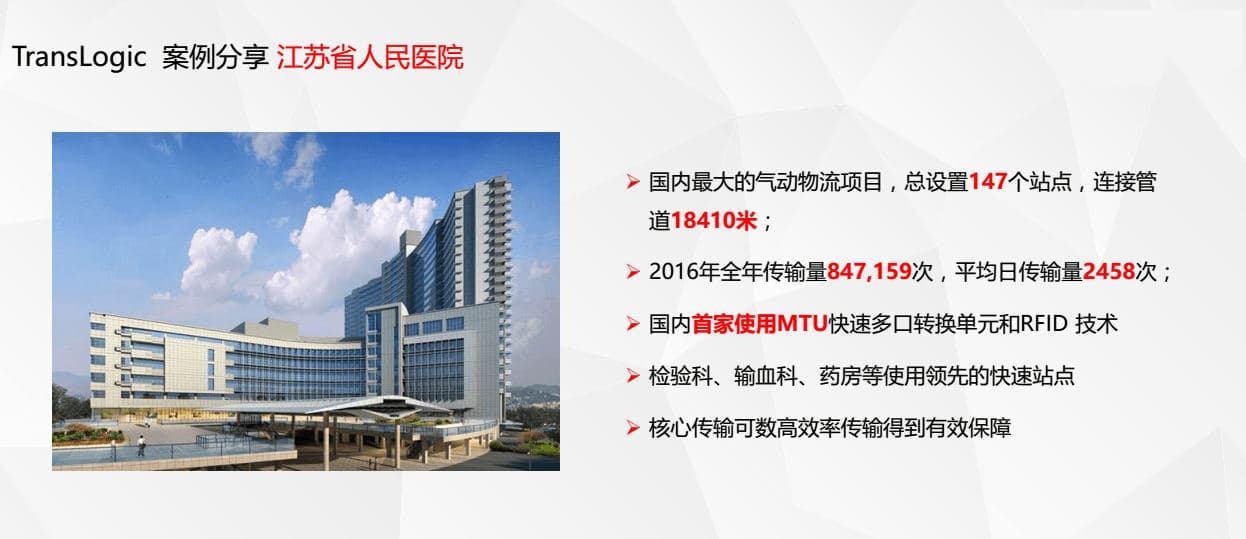
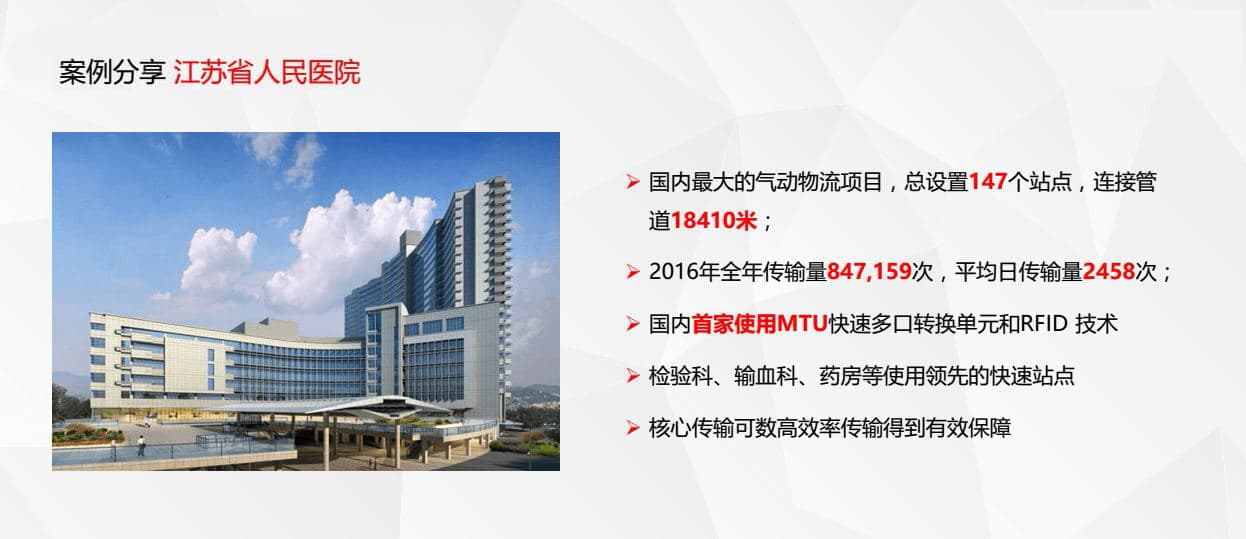
修图 去水印

Changed region(s): [[0.0, 0.0594, 0.3965, 0.1781]]

diff --git a/case-share.html b/case-share.html
@@ -1,1 +1,1 @@
-<!DOCTYPE html><html lang="en"><head><meta charset="utf-8"><meta http-equiv="X-UA-Compatible" content="IE=edge"><meta name="viewport" content="width=device-width, initial-scale=1"><meta name="description" content=""><meta name="keywords" content=""><meta name="author" content=""><title>案例分享 - 睿启（上海）工程设备有限公司</title><link rel="icon" href="images/favicon.png" type="image/x-icon"><link href="css/bootstrap.min.css" rel="stylesheet"><link href="css/bootstrap-dropdownhover.min.css" rel="stylesheet"><link href="css/font-awesome.min.css" rel="stylesheet"><link href="css/animate.css" rel="stylesheet"><link href="css/style.css" rel="stylesheet"><link href="css/responsive.css" rel="stylesheet"></head><body><header id="header" class="head"><nav class="navbar navbar-default navbar-menu"><div class="container"><div class="navbar-header"><button type="button" class="navbar-toggle" data-toggle="collapse" data-target=".navbar-collapse"><span class="sr-only">Toggle navigation</span><span class="icon-bar"></span><span class="icon-bar"></span><span class="icon-bar"></span></button><a class="navbar-brand" href="index.html"><img src="images/logo.png" alt="logo"></a><p class="navbar-text">睿启（上海）工程设备有限公司</p></div><div class="collapse navbar-collapse" id="bs-example-navbar-collapse-1" data-animations="fadeIn"><ul class="nav navbar-nav navbar-right"><li><a href="index.html">公司首页</a></li><li><a href="company-introduction.html">公司介绍</a></li><li class="dropdown"><a href="javascript:;" class="dropdown-toggle" data-toggle="dropdown" role="button" aria-haspopup="true"                aria-expanded="false">产品中心<span class="caret"></span></a><ul class="dropdown-menu"><li id='dropdown3-wrap' class="dropdown3-wrap" flag='off'><a href="javascript:;">自动化物流系统方案</a></li><li class="dropdown3"><div><a href="case.html">气动物流传输系统(PTS)</a></div><div><a href="case.html">轨道物流解决方案(ETV)</a></div><div><a href="case.html">中型物流解决方案</a></div><div><a href="case.html">自动导航机器人</a></div></li><li><a href="case.html">医院药房自动化系统</a></li><li><a href="case.html">骨科手术机器人</a></li><li><a href="case.html">院内OTC物品解决方案</a></li></ul></li><li><a href="case-share.html">案列分享</a></li><li><a href="contact_fb.html">关于我们</a></li></ul></div></div></nav></header><section id="slider" class=""><div id="main-slide" class="carousel slide" data-ride="carousel"><ol class="carousel-indicators visible-lg visible-md"><li data-target="#main-slide" data-slide-to="0" class="active"></li><li data-target="#main-slide" data-slide-to="1"></li><li data-target="#main-slide" data-slide-to="2"></li></ol><div class="carousel-inner"></div><template id="tpl-slide-item"><div class="item" style="background-image:url(images/banner/2.jpg)"><div class="slider-content"><div class="col-md-12 text-center"><h2 class="slide-title effect4">智能 改变生活</h2><h3 class="slide-sub-title effect5">您身边的智能专家</h3></div></div></div></template><a class="left carousel-control" href="#main-slide" data-slide="prev"><span><i class="fa fa-angle-left"></i></span></a><a class="right carousel-control" href="#main-slide" data-slide="next"><span><i class="fa fa-angle-right"></i></span></a></div></section><div class="tlinks">Collect from<a href=""></a></div><section id="inner-title" class="inner-title"><div class="container"><div class="row"><div class="col-md-6 col-lg-6"><h2>案例分享</h2></div><div class="col-md-6 col-lg-6"><div class="breadcrumbs"><ul><li>当前页:</li><li><a href="index.html">公司首页</a></li><li><a href="case-share.html">案例分享</a></li></ul></div></div></div></div></section><section id="solve2" class="section22 case-content" name="solve2"><div class="container"><div class="row"><div class="col-md-12 col-lg-12"><div class="section-5-box-text-cont wow fadeInLeft" style="visibility: visible; animation-name: fadeInLeft;"><img              src="images/case-share/00.jpg" class="img-responsive" alt=""></div></div></div><div class="row"><div class="col-md-12 col-lg-12"><div class="section-5-box-text-cont wow fadeInLeft" style="visibility: visible; animation-name: fadeInLeft;"><img              src="images/case-share/0.jpg" class="img-responsive" alt=""></div></div></div><div class="row"><div class="col-md-12 col-lg-12"><div class="section-5-box-text-cont wow fadeInLeft" style="visibility: visible; animation-name: fadeInLeft;"><img              src="images/case-share/1.jpg" class="img-responsive" alt=""></div></div></div><div class="row"><div class="col-md-12 col-lg-12"><div class="section-5-box-text-cont wow fadeInLeft" style="visibility: visible; animation-name: fadeInLeft;"><img              src="images/case-share/2.jpg" class="img-responsive" alt=""></div></div></div><div class="row"><div class="col-md-12 col-lg-12"><div class="section-5-box-text-cont wow fadeInLeft" style="visibility: visible; animation-name: fadeInLeft;"><img              src="images/case-share/3.jpg" class="img-responsive" alt=""></div></div></div><div class="row"><div class="col-md-12 col-lg-12"><div class="section-5-box-text-cont wow fadeInLeft" style="visibility: visible; animation-name: fadeInLeft;"><img              src="images/case-share/4.jpg" class="img-responsive" alt=""></div></div></div><div class="row"><div class="col-md-12 col-lg-12"><div class="section-5-box-text-cont wow fadeInLeft" style="visibility: visible; animation-name: fadeInLeft;"><img              src="images/case-share/5.jpg" class="img-responsive" alt=""></div></div></div><div class="row"><div class="col-md-12 col-lg-12"><div class="section-5-box-text-cont wow fadeInLeft" style="visibility: visible; animation-name: fadeInLeft;"><img              src="images/case-share/6.jpg" class="img-responsive" alt=""></div></div></div><div class="row"><div class="col-md-12 col-lg-12"><div class="section-5-box-text-cont wow fadeInLeft" style="visibility: visible; animation-name: fadeInLeft;"><img              src="images/case-share/7.jpg" class="img-responsive" alt=""></div></div></div><div class="row"><div class="col-md-12 col-lg-12"><div class="section-5-box-text-cont wow fadeInLeft" style="visibility: visible; animation-name: fadeInLeft;"><img              src="images/case-share/8.jpg" class="img-responsive" alt=""></div></div></div><div class="row"><div class="col-md-12 col-lg-12"><div class="section-5-box-text-cont wow fadeInLeft" style="visibility: visible; animation-name: fadeInLeft;"><img              src="images/case-share/9.jpg" class="img-responsive" alt=""></div></div></div><div class="row"><div class="col-md-12 col-lg-12"><div class="section-5-box-text-cont wow fadeInLeft" style="visibility: visible; animation-name: fadeInLeft;"><img              src="images/case-share/10.jpg" class="img-responsive" alt=""></div></div></div><div class="row"><div class="col-md-12 col-lg-12"><div class="section-5-box-text-cont wow fadeInLeft" style="visibility: visible; animation-name: fadeInLeft;"><img              src="images/case-share/11.jpg" class="img-responsive" alt=""></div></div></div><div class="row"><div class="col-md-12 col-lg-12"><div class="section-5-box-text-cont wow fadeInLeft" style="visibility: visible; animation-name: fadeInLeft;"><img              src="images/case-share/12.jpg" class="img-responsive" alt=""></div></div></div></div></section><section id="section23" class="appointment"><div class="modal fade" id="appointment" tabindex="-1" role="dialog" aria-labelledby="myModalLabel"><div class="modal-dialog style-one" role="document"><div class="modal-content"><div class="modal-header"><button type="button" class="close" data-dismiss="modal" aria-label="Close"><span aria-hidden="true">&times;</span></button><h4 class="modal-title" id="myModalLabel">Make an Appoinment</h4></div><div class="modal-body"><div class="appoinment-form-outer"><form action="" method="post"><h4>Fill Up Appointment Form.</h4><div class="form-group"><label>Name<span class="required">*</span></label><input type="text" class="form-control" required="" placeholder="First Name" value="" name="name"></div><div class="form-group"><label>Email<span class="required">*</span></label><input type="email" class="form-control" required="" placeholder="Email" value="" name="name"></div><div class="form-group"><label>Phone<span class="required">*</span></label><input type="text" class="form-control" required="" placeholder="Phone" value="" name="name"></div><div class="form-group"><label>Age<span class="required">*</span></label><input type="text" class="form-control" required="" placeholder="age" value="" name="name"></div><div class="form-group"><label>Appoinment Date<span class="required">*</span></label><input class="datepicker form-control" type="text" required="" placeholder="MM/DD/Year" value="" name="name"></div><div class="form-group"><label>Time<span class="required">*</span></label><input type="text" class="timepicker form-control" required="" placeholder="Time" value="" name="name"></div><div class="form-group"><label>Address<span class="required">*</span></label><input type="text" class="form-control" required="" placeholder="Address" value="" name="name"></div><div class="text-left"><button type="button" class="btn btn-primary">Send Message</button></div></form></div></div></div></div></div></section><section id="footer-top" class="footer-top"><div class="container"><div class="row"><div class="col-md-3 col-lg-3"><div class="footer-top-box"><h4>公司介绍</h4><p>睿启（上海）工程设备有限公司创建于 2014 年，是一家专注于医院自动化物流解决方案、药房自动化解决方案、仓储智能物流解决方案以及手术室骨科机器人的科技型公司。</p></div></div><div class="col-md-3 col-lg-3"><div class="footer-top-box"><h4>公司新闻</h4><ul><li><div class="recent-post-widget"><a href="case-share.html" class="widget-img-thumb"><img src="images/blog/blog-1.jpg" class="img-responsive"></a><div class="widget-content"><h5><a href="#" class="sidebar-item-title">Swisslog 整体解决方案</a></h5></div><div class="clearfix"></div></div><div class="recent-post-widget"><a href="case.html" class="widget-img-thumb"><img src="images/blog/blog-2.jpg" class="img-responsive"></a><div class="widget-content"><h5><a href="#" class="sidebar-item-title">物流传输系统介绍</a></h5></div><div class="clearfix"></div></div><div class="recent-post-widget"><a href="case.html" class="widget-img-thumb"><img src="images/blog/blog-3.jpg" class="img-responsive"></a><div class="widget-content"><h5><a href="#" class="sidebar-item-title">药房自动化系统介绍</a></h5></div><div class="clearfix"></div></div></li></ul></div></div><div class="col-md-4 col-lg-4"><div class="footer-top-box"><h4>解决案列</h4><div class="tag"><a href="case.html">气动物流解决方案</a></div><div class="tag"><a href="case.html">轨道物流解决方案</a></div><div class="tag"><a href="case.html">药房自动化解决方案</a></div><div class="tag"><a href="case.html">手术室骨科机器人解决方案</a></div><div class="tag"><a href="case.html">机器人商店解决方案</a></div><div class="tag"><a href="case.html">中型物流解决方案</a></div></div></div><div class="col-md-2 col-lg-2"><div class="footer-top-box"><h4>联系我们</h4><p><b>地址 : 上海市嘉定区陈翔路88号6栋2楼B区2020室<br /><b>电话:</b> 021-62681415<br /><b>邮箱:</b> service@richysh.com.cn</p></div></div></div></div></section><script src="js/jquery.min.js"></script><script src="js/bootstrap.min.js"></script><script src="js/jquery.plugin.min.js"></script><script src="js/jquery.isotope.min.js"></script><script src="js/jquery.magnific-popup.min.js"></script><script src="js/bootstrap-dropdownhover.min.js"></script><script src="js/wow.min.js"></script><script src="js/waypoints.min.js"></script><script src="js/jquery.counterup.min.js"></script><script src="js/main.js"></script><script src="js/index.js"></script></body></html>
+<!DOCTYPE html><html lang="en"><head><meta charset="utf-8"><meta http-equiv="X-UA-Compatible" content="IE=edge"><meta name="viewport" content="width=device-width, initial-scale=1"><meta name="description" content=""><meta name="keywords" content=""><meta name="author" content=""><title>案例分享 - 睿启（上海）工程设备有限公司</title><link rel="icon" href="images/favicon.png" type="image/x-icon"><link href="css/bootstrap.min.css" rel="stylesheet"><link href="css/bootstrap-dropdownhover.min.css" rel="stylesheet"><link href="css/font-awesome.min.css" rel="stylesheet"><link href="css/animate.css" rel="stylesheet"><link href="css/style.css" rel="stylesheet"><link href="css/responsive.css" rel="stylesheet"></head><body><header id="header" class="head"><nav class="navbar navbar-default navbar-menu"><div class="container"><div class="navbar-header"><button type="button" class="navbar-toggle" data-toggle="collapse" data-target=".navbar-collapse"><span class="sr-only">Toggle navigation</span><span class="icon-bar"></span><span class="icon-bar"></span><span class="icon-bar"></span></button><a class="navbar-brand" href="index.html"><img src="images/logo.png" alt="logo"></a><p class="navbar-text">睿启（上海）工程设备有限公司</p></div><div class="collapse navbar-collapse" id="bs-example-navbar-collapse-1" data-animations="fadeIn"><ul class="nav navbar-nav navbar-right"><li><a href="index.html">公司首页</a></li><li><a href="company-introduction.html">公司介绍</a></li><li class="dropdown"><a href="javascript:;" class="dropdown-toggle" data-toggle="dropdown" role="button" aria-haspopup="true"                aria-expanded="false">产品中心<span class="caret"></span></a><ul class="dropdown-menu"><li id='dropdown3-wrap' class="dropdown3-wrap" flag='off'><a href="javascript:;">自动化物流系统方案</a></li><li class="dropdown3"><div><a href="case.html">气动物流传输系统(PTS)</a></div><div><a href="case.html">轨道物流解决方案(ETV)</a></div><div><a href="case.html">中型物流解决方案</a></div><div><a href="case.html">自动导航机器人</a></div></li><li><a href="case.html">医院药房自动化系统</a></li><li><a href="case.html">骨科手术机器人</a></li><li><a href="case.html">院内OTC物品解决方案</a></li></ul></li><li><a href="case-share.html">案列分享</a></li><li><a href="contact_fb.html">关于我们</a></li></ul></div></div></nav></header><section id="slider" class=""><div id="main-slide" class="carousel slide" data-ride="carousel"><ol class="carousel-indicators visible-lg visible-md"><li data-target="#main-slide" data-slide-to="0" class="active"></li><li data-target="#main-slide" data-slide-to="1"></li><li data-target="#main-slide" data-slide-to="2"></li></ol><div class="carousel-inner"></div><template id="tpl-slide-item"><div class="item" style="background-image:url(images/banner/2.jpg)"><div class="slider-content"><div class="col-md-12 text-center"><h2 class="slide-title effect4">智能 改变生活</h2><h3 class="slide-sub-title effect5">您身边的智能专家</h3></div></div></div></template><a class="left carousel-control" href="#main-slide" data-slide="prev"><span><i class="fa fa-angle-left"></i></span></a><a class="right carousel-control" href="#main-slide" data-slide="next"><span><i class="fa fa-angle-right"></i></span></a></div></section><div class="tlinks">Collect from<a href=""></a></div><section id="inner-title" class="inner-title"><div class="container"><div class="row"><div class="col-md-6 col-lg-6"><h2>案例分享</h2></div><div class="col-md-6 col-lg-6"><div class="breadcrumbs"><ul><li>当前页:</li><li><a href="index.html">公司首页</a></li><li><a href="case-share.html">案例分享</a></li></ul></div></div></div></div></section><section id="solve2" class="section22 case-content" name="solve2"><div class="container"><div class="row"><div class="col-md-12 col-lg-12"><div class="section-5-box-text-cont wow fadeInLeft" style="visibility: visible; animation-name: fadeInLeft;"><img src="images/case-share/00.jpg" class="img-responsive" alt=""></div></div></div><div class="row"><div class="col-md-12 col-lg-12"><div class="section-5-box-text-cont wow fadeInLeft" style="visibility: visible; animation-name: fadeInLeft;"><img src="images/case-share/0.jpg" class="img-responsive" alt=""></div></div></div><div class="row"><div class="col-md-12 col-lg-12"><div class="section-5-box-text-cont wow fadeInLeft" style="visibility: visible; animation-name: fadeInLeft;"><img src="images/case-share/2.jpg" class="img-responsive" alt=""></div></div></div><div class="row"><div class="col-md-12 col-lg-12"><div class="section-5-box-text-cont wow fadeInLeft" style="visibility: visible; animation-name: fadeInLeft;"><img src="images/case-share/3.jpg" class="img-responsive" alt=""></div></div></div><div class="row"><div class="col-md-12 col-lg-12"><div class="section-5-box-text-cont wow fadeInLeft" style="visibility: visible; animation-name: fadeInLeft;"><img src="images/case-share/4.jpg" class="img-responsive" alt=""></div></div></div><div class="row"><div class="col-md-12 col-lg-12"><div class="section-5-box-text-cont wow fadeInLeft" style="visibility: visible; animation-name: fadeInLeft;"><img src="images/case-share/5.jpg" class="img-responsive" alt=""></div></div></div><div class="row"><div class="col-md-12 col-lg-12"><div class="section-5-box-text-cont wow fadeInLeft" style="visibility: visible; animation-name: fadeInLeft;"><img src="images/case-share/6.jpg" class="img-responsive" alt=""></div></div></div><div class="row"><div class="col-md-12 col-lg-12"><div class="section-5-box-text-cont wow fadeInLeft" style="visibility: visible; animation-name: fadeInLeft;"><img src="images/case-share/7.jpg" class="img-responsive" alt=""></div></div></div><div class="row"><div class="col-md-12 col-lg-12"><div class="section-5-box-text-cont wow fadeInLeft" style="visibility: visible; animation-name: fadeInLeft;"><img src="images/case-share/8.jpg" class="img-responsive" alt=""></div></div></div><div class="row"><div class="col-md-12 col-lg-12"><div class="section-5-box-text-cont wow fadeInLeft" style="visibility: visible; animation-name: fadeInLeft;"><img src="images/case-share/9.jpg" class="img-responsive" alt=""></div></div></div><div class="row"><div class="col-md-12 col-lg-12"><div class="section-5-box-text-cont wow fadeInLeft" style="visibility: visible; animation-name: fadeInLeft;"><img src="images/case-share/10.jpg" class="img-responsive" alt=""></div></div></div><div class="row"><div class="col-md-12 col-lg-12"><div class="section-5-box-text-cont wow fadeInLeft" style="visibility: visible; animation-name: fadeInLeft;"><img src="images/case-share/11.jpg" class="img-responsive" alt=""></div></div></div><div class="row"><div class="col-md-12 col-lg-12"><div class="section-5-box-text-cont wow fadeInLeft" style="visibility: visible; animation-name: fadeInLeft;"><img src="images/case-share/12.jpg" class="img-responsive" alt=""></div></div></div></div></section><section id="section23" class="appointment"><div class="modal fade" id="appointment" tabindex="-1" role="dialog" aria-labelledby="myModalLabel"><div class="modal-dialog style-one" role="document"><div class="modal-content"><div class="modal-header"><button type="button" class="close" data-dismiss="modal" aria-label="Close"><span aria-hidden="true">&times;</span></button><h4 class="modal-title" id="myModalLabel">Make an Appoinment</h4></div><div class="modal-body"><div class="appoinment-form-outer"><form action="" method="post"><h4>Fill Up Appointment Form.</h4><div class="form-group"><label>Name<span class="required">*</span></label><input type="text" class="form-control" required="" placeholder="First Name" value="" name="name"></div><div class="form-group"><label>Email<span class="required">*</span></label><input type="email" class="form-control" required="" placeholder="Email" value="" name="name"></div><div class="form-group"><label>Phone<span class="required">*</span></label><input type="text" class="form-control" required="" placeholder="Phone" value="" name="name"></div><div class="form-group"><label>Age<span class="required">*</span></label><input type="text" class="form-control" required="" placeholder="age" value="" name="name"></div><div class="form-group"><label>Appoinment Date<span class="required">*</span></label><input class="datepicker form-control" type="text" required="" placeholder="MM/DD/Year" value="" name="name"></div><div class="form-group"><label>Time<span class="required">*</span></label><input type="text" class="timepicker form-control" required="" placeholder="Time" value="" name="name"></div><div class="form-group"><label>Address<span class="required">*</span></label><input type="text" class="form-control" required="" placeholder="Address" value="" name="name"></div><div class="text-left"><button type="button" class="btn btn-primary">Send Message</button></div></form></div></div></div></div></div></section><section id="footer-top" class="footer-top"><div class="container"><div class="row"><div class="col-md-3 col-lg-3"><div class="footer-top-box"><h4>公司介绍</h4><p>睿启（上海）工程设备有限公司创建于 2014 年，是一家专注于医院自动化物流解决方案、药房自动化解决方案、仓储智能物流解决方案以及手术室骨科机器人的科技型公司。</p></div></div><div class="col-md-3 col-lg-3"><div class="footer-top-box"><h4>公司新闻</h4><ul><li><div class="recent-post-widget"><a href="case-share.html" class="widget-img-thumb"><img src="images/blog/blog-1.jpg" class="img-responsive"></a><div class="widget-content"><h5><a href="#" class="sidebar-item-title">Swisslog 整体解决方案</a></h5></div><div class="clearfix"></div></div><div class="recent-post-widget"><a href="case.html" class="widget-img-thumb"><img src="images/blog/blog-2.jpg" class="img-responsive"></a><div class="widget-content"><h5><a href="#" class="sidebar-item-title">物流传输系统介绍</a></h5></div><div class="clearfix"></div></div><div class="recent-post-widget"><a href="case.html" class="widget-img-thumb"><img src="images/blog/blog-3.jpg" class="img-responsive"></a><div class="widget-content"><h5><a href="#" class="sidebar-item-title">药房自动化系统介绍</a></h5></div><div class="clearfix"></div></div></li></ul></div></div><div class="col-md-4 col-lg-4"><div class="footer-top-box"><h4>解决案列</h4><div class="tag"><a href="case.html">气动物流解决方案</a></div><div class="tag"><a href="case.html">轨道物流解决方案</a></div><div class="tag"><a href="case.html">药房自动化解决方案</a></div><div class="tag"><a href="case.html">手术室骨科机器人解决方案</a></div><div class="tag"><a href="case.html">机器人商店解决方案</a></div><div class="tag"><a href="case.html">中型物流解决方案</a></div></div></div><div class="col-md-2 col-lg-2"><div class="footer-top-box"><h4>联系我们</h4><p><b>地址 : 上海市嘉定区陈翔路88号6栋2楼B区2020室<br /><b>电话:</b> 021-62681415<br /><b>邮箱:</b> service@richysh.com.cn</p></div></div></div></div></section><script src="js/jquery.min.js"></script><script src="js/bootstrap.min.js"></script><script src="js/jquery.plugin.min.js"></script><script src="js/jquery.isotope.min.js"></script><script src="js/jquery.magnific-popup.min.js"></script><script src="js/bootstrap-dropdownhover.min.js"></script><script src="js/wow.min.js"></script><script src="js/waypoints.min.js"></script><script src="js/jquery.counterup.min.js"></script><script src="js/main.js"></script><script src="js/index.js"></script></body></html>

diff --git a/company-introduction.html b/company-introduction.html
@@ -1,1 +1,1 @@
-<!DOCTYPE html><html lang="en"><head><meta charset="utf-8"><meta http-equiv="X-UA-Compatible" content="IE=edge"><meta name="viewport" content="width=device-width, initial-scale=1"><meta name="description" content=""><meta name="keywords" content=""><meta name="author" content=""><title>公司介绍 - 睿启（上海）工程设备有限公司</title><link rel="icon" href="images/favicon.png" type="image/x-icon"><link href="css/bootstrap.min.css" rel="stylesheet"><link href="css/bootstrap-dropdownhover.min.css" rel="stylesheet"><link href="css/font-awesome.min.css" rel="stylesheet"><link href="css/animate.css" rel="stylesheet"><link href="css/style.css" rel="stylesheet"><link href="css/responsive.css" rel="stylesheet"></head><body><header id="header" class="head"><nav class="navbar navbar-default navbar-menu"><div class="container"><div class="navbar-header"><button type="button" class="navbar-toggle" data-toggle="collapse" data-target=".navbar-collapse"><span class="sr-only">Toggle navigation</span><span class="icon-bar"></span><span class="icon-bar"></span><span class="icon-bar"></span></button><a class="navbar-brand" href="index.html"><img src="images/logo.png" alt="logo"></a><p class="navbar-text">睿启（上海）工程设备有限公司</p></div><div class="collapse navbar-collapse" id="bs-example-navbar-collapse-1" data-animations="fadeIn"><ul class="nav navbar-nav navbar-right"><li><a href="index.html">公司首页</a></li><li><a href="company-introduction.html">公司介绍</a></li><li class="dropdown"><a href="javascript:;" class="dropdown-toggle" data-toggle="dropdown" role="button" aria-haspopup="true"                aria-expanded="false">产品中心<span class="caret"></span></a><ul class="dropdown-menu"><li id='dropdown3-wrap' class="dropdown3-wrap" flag='off'><a href="javascript:;">自动化物流系统方案</a></li><li class="dropdown3"><div><a href="case.html">气动物流传输系统(PTS)</a></div><div><a href="case.html">轨道物流解决方案(ETV)</a></div><div><a href="case.html">中型物流解决方案</a></div><div><a href="case.html">自动导航机器人</a></div></li><li><a href="case.html">医院药房自动化系统</a></li><li><a href="case.html">骨科手术机器人</a></li><li><a href="case.html">院内OTC物品解决方案</a></li></ul></li><li><a href="case-share.html">案列分享</a></li><li><a href="contact_fb.html">关于我们</a></li></ul></div></div></nav></header><section id="slider" class=""><div id="main-slide" class="carousel slide" data-ride="carousel"><ol class="carousel-indicators visible-lg visible-md"><li data-target="#main-slide" data-slide-to="0" class="active"></li><li data-target="#main-slide" data-slide-to="1"></li><li data-target="#main-slide" data-slide-to="2"></li></ol><div class="carousel-inner"></div><template id="tpl-slide-item"><div class="item" style="background-image:url(images/banner/2.jpg)"><div class="slider-content"><div class="col-md-12 text-center"><h2 class="slide-title effect4">智能 改变生活</h2><h3 class="slide-sub-title effect5">您身边的智能专家</h3></div></div></div></template><a class="left carousel-control" href="#main-slide" data-slide="prev"><span><i class="fa fa-angle-left"></i></span></a><a class="right carousel-control" href="#main-slide" data-slide="next"><span><i class="fa fa-angle-right"></i></span></a></div></section><section id="inner-title" class="inner-title"><div class="container"><div class="row"><div class="col-md-6 col-lg-6"><h2>公司介绍</h2></div><div class="col-md-6 col-lg-6"><div class="breadcrumbs"><ul><li>当前页:</li><li><a href="index.html">公司首页</a></li><li><a href="company-introduction.html">公司介绍</a></li></ul></div></div></div></div></section><section id="section18" class="section-margine" style="margin-bottom: 40px;"><div class="container"><div class="section18"><div class="row"><div class="col-md-8 col-lg-8 wow fadeInUp"><div class="textcont"><h3>公司介绍</h3><p>睿启（上海）工程设备有限公司创建于2014年，是一家专注于医院自动化物流解决方案、药房自动化解决方案、仓储智能物流解决方案以及手术室骨科机器人的科技型公司。</p><h4>建于2014年</h4><p>作为智能化设备提供商，睿启以“全面、主动、及时”的服务宗旨为您解决设备使用中的任何问题，公司销售及售后服务点分布全国各省市，同时提供从设计、安装、实施到培训及维护等全方位的优质服务，最大程度满足客户的服务需求。</p><h4>企业理念</h4><p>智能 改变生活<br>您身边的智能专家</p></div></div><div class="col-md-4 col-lg-3 col-lg-push-1 wow fadeInUp" data-wow-delay=".2s"><div class="section-18-img"><img src="images/logo.png" class="img-responsive" alt=""></div></div></div><div class="row mission-vision"><div class="col-sm-6 col-md-6 wow fadeInUp" data-wow-delay=".3s"><figure><img src="images/a2.jpg" class="img-responsive" alt=""></figure><h4>定制化解决方案</h4><p>睿启为客户提供定制化解决方案，降低医疗复杂程度，创新医疗解决方案，让您专注于重要事务，理解您所面临的挑战并致力于提供可靠，智能的产品及解决方案使您的工作变得更轻松，让科技使生活更精彩。</p></div><div class="col-sm-6 col-md-6 wow fadeInUp" data-wow-delay=".4s"><figure><img src="images/a1.jpg" class="img-responsive" alt=""></figure><h4>专注 & 效率</h4><p>同时专注于仓储物流领域通过领先的机器人产品和人工智能技术实现高度智能的物流自动化解决方案，效率永远是关键。对您，对您的团队，对利润，都是如此。我们的创新解决方案能确保生产流程的顺利运行，并有效提高员工的工作效率。</p></div></div></div></div></section><section id="footer-top" class="footer-top"><div class="container"><div class="row"><div class="col-md-3 col-lg-3"><div class="footer-top-box"><h4>公司介绍</h4><p>睿启（上海）工程设备有限公司创建于 2014 年，是一家专注于医院自动化物流解决方案、药房自动化解决方案、仓储智能物流解决方案以及手术室骨科机器人的科技型公司。</p></div></div><div class="col-md-3 col-lg-3"><div class="footer-top-box"><h4>公司新闻</h4><ul><li><div class="recent-post-widget"><a href="case-share.html" class="widget-img-thumb"><img src="images/blog/blog-1.jpg" class="img-responsive"></a><div class="widget-content"><h5><a href="#" class="sidebar-item-title">Swisslog 整体解决方案</a></h5></div><div class="clearfix"></div></div><div class="recent-post-widget"><a href="case.html" class="widget-img-thumb"><img src="images/blog/blog-2.jpg" class="img-responsive"></a><div class="widget-content"><h5><a href="#" class="sidebar-item-title">物流传输系统介绍</a></h5></div><div class="clearfix"></div></div><div class="recent-post-widget"><a href="case.html" class="widget-img-thumb"><img src="images/blog/blog-3.jpg" class="img-responsive"></a><div class="widget-content"><h5><a href="#" class="sidebar-item-title">药房自动化系统介绍</a></h5></div><div class="clearfix"></div></div></li></ul></div></div><div class="col-md-4 col-lg-4"><div class="footer-top-box"><h4>解决案列</h4><div class="tag"><a href="case.html">气动物流解决方案</a></div><div class="tag"><a href="case.html">轨道物流解决方案</a></div><div class="tag"><a href="case.html">药房自动化解决方案</a></div><div class="tag"><a href="case.html">手术室骨科机器人解决方案</a></div><div class="tag"><a href="case.html">机器人商店解决方案</a></div><div class="tag"><a href="case.html">中型物流解决方案</a></div></div></div><div class="col-md-2 col-lg-2"><div class="footer-top-box"><h4>联系我们</h4><p><b>地址 : 上海市嘉定区陈翔路88号6栋2楼B区2020室<br /><b>电话:</b> 021-62681415<br /><b>邮箱:</b> service@richysh.com.cn</p></div></div></div></div></section><script src="js/jquery.min.js"></script><script src="js/bootstrap.min.js"></script><script src="js/jquery.plugin.min.js"></script><script src="js/jquery.isotope.min.js"></script><script src="js/jquery.magnific-popup.min.js"></script><script src="js/bootstrap-dropdownhover.min.js"></script><script src="js/wow.min.js"></script><script src="js/waypoints.min.js"></script><script src="js/jquery.counterup.min.js"></script><script src="js/main.js"></script><script src="js/index.js"></script></body></html>
+<!DOCTYPE html><html lang="en"><head><meta charset="utf-8"><meta http-equiv="X-UA-Compatible" content="IE=edge"><meta name="viewport" content="width=device-width, initial-scale=1"><meta name="description" content=""><meta name="keywords" content=""><meta name="author" content=""><title>公司介绍 - 睿启（上海）工程设备有限公司</title><link rel="icon" href="images/favicon.png" type="image/x-icon"><link href="css/bootstrap.min.css" rel="stylesheet"><link href="css/bootstrap-dropdownhover.min.css" rel="stylesheet"><link href="css/font-awesome.min.css" rel="stylesheet"><link href="css/animate.css" rel="stylesheet"><link href="css/style.css" rel="stylesheet"><link href="css/responsive.css" rel="stylesheet"></head><body><header id="header" class="head"><nav class="navbar navbar-default navbar-menu"><div class="container"><div class="navbar-header"><button type="button" class="navbar-toggle" data-toggle="collapse" data-target=".navbar-collapse"><span class="sr-only">Toggle navigation</span><span class="icon-bar"></span><span class="icon-bar"></span><span class="icon-bar"></span></button><a class="navbar-brand" href="index.html"><img src="images/logo.png" alt="logo"></a><p class="navbar-text">睿启（上海）工程设备有限公司</p></div><div class="collapse navbar-collapse" id="bs-example-navbar-collapse-1" data-animations="fadeIn"><ul class="nav navbar-nav navbar-right"><li><a href="index.html">公司首页</a></li><li><a href="company-introduction.html">公司介绍</a></li><li class="dropdown"><a href="javascript:;" class="dropdown-toggle" data-toggle="dropdown" role="button" aria-haspopup="true"                aria-expanded="false">产品中心<span class="caret"></span></a><ul class="dropdown-menu"><li id='dropdown3-wrap' class="dropdown3-wrap" flag='off'><a href="javascript:;">自动化物流系统方案</a></li><li class="dropdown3"><div><a href="case.html">气动物流传输系统(PTS)</a></div><div><a href="case.html">轨道物流解决方案(ETV)</a></div><div><a href="case.html">中型物流解决方案</a></div><div><a href="case.html">自动导航机器人</a></div></li><li><a href="case.html">医院药房自动化系统</a></li><li><a href="case.html">骨科手术机器人</a></li><li><a href="case.html">院内OTC物品解决方案</a></li></ul></li><li><a href="case-share.html">案列分享</a></li><li><a href="contact_fb.html">关于我们</a></li></ul></div></div></nav></header><section id="slider" class=""><div id="main-slide" class="carousel slide" data-ride="carousel"><ol class="carousel-indicators visible-lg visible-md"><li data-target="#main-slide" data-slide-to="0" class="active"></li><li data-target="#main-slide" data-slide-to="1"></li><li data-target="#main-slide" data-slide-to="2"></li></ol><div class="carousel-inner"></div><template id="tpl-slide-item"><div class="item" style="background-image:url(images/banner/2.jpg)"><div class="slider-content"><div class="col-md-12 text-center"><h2 class="slide-title effect4">智能 改变生活</h2><h3 class="slide-sub-title effect5">您身边的智能专家</h3></div></div></div></template><a class="left carousel-control" href="#main-slide" data-slide="prev"><span><i class="fa fa-angle-left"></i></span></a><a class="right carousel-control" href="#main-slide" data-slide="next"><span><i class="fa fa-angle-right"></i></span></a></div></section><section id="inner-title" class="inner-title"><div class="container"><div class="row"><div class="col-md-6 col-lg-6"><h2>公司介绍</h2></div><div class="col-md-6 col-lg-6"><div class="breadcrumbs"><ul><li>当前页:</li><li><a href="index.html">公司首页</a></li><li><a href="company-introduction.html">公司介绍</a></li></ul></div></div></div></div></section><section id="section18" class="section-margine" style="margin-bottom: 40px;"><div class="container"><div class="section18"><div class="row"><div class="col-md-7 col-lg-7 wow fadeInUp"><div class="textcont"><h3>公司介绍</h3><br><p>睿启（上海）工程设备有限公司创建于2014年，是一家专注于医院自动化物流解决方案、药房自动化解决方案、仓储智能物流解决方案以及手术室骨科机器人的科技型公司。</p><p>作为智能化设备提供商，睿启以“全面、主动、及时”的服务宗旨为您解决设备使用中的任何问题，公司销售及售后服务点分布全国各省市，同时提供从设计、安装、实施到培训及维护等全方位的优质服务，最大程度满足客户的服务需求。</p><h4>企业理念</h4><p>智能 改变生活<br>您身边的智能专家</p></div></div><div class="col-md-5 col-lg-5 wow fadeInUp" data-wow-delay=".2s"><div class="section-18-img"><img src="images/campany.jpg" class="img-responsive" alt=""></div></div></div><div class="row mission-vision"><div class="col-sm-6 col-md-6 wow fadeInUp" data-wow-delay=".3s"><figure><img src="images/a2.jpg" class="img-responsive" alt=""></figure><h4>定制化解决方案</h4><p>睿启为客户提供定制化解决方案，降低医疗复杂程度，创新医疗解决方案，让您专注于重要事务，理解您所面临的挑战并致力于提供可靠，智能的产品及解决方案使您的工作变得更轻松，让科技使生活更精彩。</p></div><div class="col-sm-6 col-md-6 wow fadeInUp" data-wow-delay=".4s"><figure><img src="images/a1.jpg" class="img-responsive" alt=""></figure><h4>专注 & 效率</h4><p>同时专注于仓储物流领域通过领先的机器人产品和人工智能技术实现高度智能的物流自动化解决方案，效率永远是关键。对您，对您的团队，对利润，都是如此。我们的创新解决方案能确保生产流程的顺利运行，并有效提高员工的工作效率。</p></div></div></div></div></section><section id="footer-top" class="footer-top"><div class="container"><div class="row"><div class="col-md-3 col-lg-3"><div class="footer-top-box"><h4>公司介绍</h4><p>睿启（上海）工程设备有限公司创建于 2014 年，是一家专注于医院自动化物流解决方案、药房自动化解决方案、仓储智能物流解决方案以及手术室骨科机器人的科技型公司。</p></div></div><div class="col-md-3 col-lg-3"><div class="footer-top-box"><h4>公司新闻</h4><ul><li><div class="recent-post-widget"><a href="case-share.html" class="widget-img-thumb"><img src="images/blog/blog-1.jpg" class="img-responsive"></a><div class="widget-content"><h5><a href="#" class="sidebar-item-title">Swisslog 整体解决方案</a></h5></div><div class="clearfix"></div></div><div class="recent-post-widget"><a href="case.html" class="widget-img-thumb"><img src="images/blog/blog-2.jpg" class="img-responsive"></a><div class="widget-content"><h5><a href="#" class="sidebar-item-title">物流传输系统介绍</a></h5></div><div class="clearfix"></div></div><div class="recent-post-widget"><a href="case.html" class="widget-img-thumb"><img src="images/blog/blog-3.jpg" class="img-responsive"></a><div class="widget-content"><h5><a href="#" class="sidebar-item-title">药房自动化系统介绍</a></h5></div><div class="clearfix"></div></div></li></ul></div></div><div class="col-md-4 col-lg-4"><div class="footer-top-box"><h4>解决案列</h4><div class="tag"><a href="case.html">气动物流解决方案</a></div><div class="tag"><a href="case.html">轨道物流解决方案</a></div><div class="tag"><a href="case.html">药房自动化解决方案</a></div><div class="tag"><a href="case.html">手术室骨科机器人解决方案</a></div><div class="tag"><a href="case.html">机器人商店解决方案</a></div><div class="tag"><a href="case.html">中型物流解决方案</a></div></div></div><div class="col-md-2 col-lg-2"><div class="footer-top-box"><h4>联系我们</h4><p><b>地址 :</b> 上海市嘉定区陈翔路88号6栋2楼B区2020室<br /><b>地址 :</b> 上海市虹口区邯郸路173号4号楼6100室<br /><b>邮箱:</b> service@richysh.com.cn</p></div></div></div></div></section><script src="js/jquery.min.js"></script><script src="js/bootstrap.min.js"></script><script src="js/jquery.plugin.min.js"></script><script src="js/jquery.isotope.min.js"></script><script src="js/jquery.magnific-popup.min.js"></script><script src="js/bootstrap-dropdownhover.min.js"></script><script src="js/wow.min.js"></script><script src="js/waypoints.min.js"></script><script src="js/jquery.counterup.min.js"></script><script src="js/main.js"></script><script src="js/index.js"></script></body></html>

diff --git a/src/case-share.html b/src/case-share.html
@@ -147,86 +147,80 @@
     <div class="container">
       <div class="row">
         <div class="col-md-12 col-lg-12">
-          <div class="section-5-box-text-cont wow fadeInLeft" style="visibility: visible; animation-name: fadeInLeft;"><img
-              src="images/case-share/00.jpg" class="img-responsive" alt=""></div>
+          <div class="section-5-box-text-cont wow fadeInLeft" style="visibility: visible; animation-name: fadeInLeft;">
+            <img src="images/case-share/00.jpg" class="img-responsive" alt=""></div>
         </div>
       </div>
       <div class="row">
         <div class="col-md-12 col-lg-12">
-          <div class="section-5-box-text-cont wow fadeInLeft" style="visibility: visible; animation-name: fadeInLeft;"><img
-              src="images/case-share/0.jpg" class="img-responsive" alt=""></div>
+          <div class="section-5-box-text-cont wow fadeInLeft" style="visibility: visible; animation-name: fadeInLeft;">
+            <img src="images/case-share/0.jpg" class="img-responsive" alt=""></div>
         </div>
       </div>
       <div class="row">
         <div class="col-md-12 col-lg-12">
-          <div class="section-5-box-text-cont wow fadeInLeft" style="visibility: visible; animation-name: fadeInLeft;"><img
-              src="images/case-share/1.jpg" class="img-responsive" alt=""></div>
+          <div class="section-5-box-text-cont wow fadeInLeft" style="visibility: visible; animation-name: fadeInLeft;">
+            <img src="images/case-share/2.jpg" class="img-responsive" alt=""></div>
         </div>
       </div>
       <div class="row">
         <div class="col-md-12 col-lg-12">
-          <div class="section-5-box-text-cont wow fadeInLeft" style="visibility: visible; animation-name: fadeInLeft;"><img
-              src="images/case-share/2.jpg" class="img-responsive" alt=""></div>
+          <div class="section-5-box-text-cont wow fadeInLeft" style="visibility: visible; animation-name: fadeInLeft;">
+            <img src="images/case-share/3.jpg" class="img-responsive" alt=""></div>
         </div>
       </div>
       <div class="row">
         <div class="col-md-12 col-lg-12">
-          <div class="section-5-box-text-cont wow fadeInLeft" style="visibility: visible; animation-name: fadeInLeft;"><img
-              src="images/case-share/3.jpg" class="img-responsive" alt=""></div>
+          <div class="section-5-box-text-cont wow fadeInLeft" style="visibility: visible; animation-name: fadeInLeft;">
+            <img src="images/case-share/4.jpg" class="img-responsive" alt=""></div>
         </div>
       </div>
       <div class="row">
         <div class="col-md-12 col-lg-12">
-          <div class="section-5-box-text-cont wow fadeInLeft" style="visibility: visible; animation-name: fadeInLeft;"><img
-              src="images/case-share/4.jpg" class="img-responsive" alt=""></div>
+          <div class="section-5-box-text-cont wow fadeInLeft" style="visibility: visible; animation-name: fadeInLeft;">
+            <img src="images/case-share/5.jpg" class="img-responsive" alt=""></div>
         </div>
       </div>
       <div class="row">
         <div class="col-md-12 col-lg-12">
-          <div class="section-5-box-text-cont wow fadeInLeft" style="visibility: visible; animation-name: fadeInLeft;"><img
-              src="images/case-share/5.jpg" class="img-responsive" alt=""></div>
+          <div class="section-5-box-text-cont wow fadeInLeft" style="visibility: visible; animation-name: fadeInLeft;">
+            <img src="images/case-share/6.jpg" class="img-responsive" alt=""></div>
         </div>
       </div>
       <div class="row">
         <div class="col-md-12 col-lg-12">
-          <div class="section-5-box-text-cont wow fadeInLeft" style="visibility: visible; animation-name: fadeInLeft;"><img
-              src="images/case-share/6.jpg" class="img-responsive" alt=""></div>
+          <div class="section-5-box-text-cont wow fadeInLeft" style="visibility: visible; animation-name: fadeInLeft;">
+            <img src="images/case-share/7.jpg" class="img-responsive" alt=""></div>
         </div>
       </div>
       <div class="row">
         <div class="col-md-12 col-lg-12">
-          <div class="section-5-box-text-cont wow fadeInLeft" style="visibility: visible; animation-name: fadeInLeft;"><img
-              src="images/case-share/7.jpg" class="img-responsive" alt=""></div>
+          <div class="section-5-box-text-cont wow fadeInLeft" style="visibility: visible; animation-name: fadeInLeft;">
+            <img src="images/case-share/8.jpg" class="img-responsive" alt=""></div>
         </div>
       </div>
       <div class="row">
         <div class="col-md-12 col-lg-12">
-          <div class="section-5-box-text-cont wow fadeInLeft" style="visibility: visible; animation-name: fadeInLeft;"><img
-              src="images/case-share/8.jpg" class="img-responsive" alt=""></div>
+          <div class="section-5-box-text-cont wow fadeInLeft" style="visibility: visible; animation-name: fadeInLeft;">
+            <img src="images/case-share/9.jpg" class="img-responsive" alt=""></div>
         </div>
       </div>
       <div class="row">
         <div class="col-md-12 col-lg-12">
-          <div class="section-5-box-text-cont wow fadeInLeft" style="visibility: visible; animation-name: fadeInLeft;"><img
-              src="images/case-share/9.jpg" class="img-responsive" alt=""></div>
+          <div class="section-5-box-text-cont wow fadeInLeft" style="visibility: visible; animation-name: fadeInLeft;">
+            <img src="images/case-share/10.jpg" class="img-responsive" alt=""></div>
         </div>
       </div>
       <div class="row">
         <div class="col-md-12 col-lg-12">
-          <div class="section-5-box-text-cont wow fadeInLeft" style="visibility: visible; animation-name: fadeInLeft;"><img
-              src="images/case-share/10.jpg" class="img-responsive" alt=""></div>
+          <div class="section-5-box-text-cont wow fadeInLeft" style="visibility: visible; animation-name: fadeInLeft;">
+            <img src="images/case-share/11.jpg" class="img-responsive" alt=""></div>
         </div>
       </div>
       <div class="row">
         <div class="col-md-12 col-lg-12">
-          <div class="section-5-box-text-cont wow fadeInLeft" style="visibility: visible; animation-name: fadeInLeft;"><img
-              src="images/case-share/11.jpg" class="img-responsive" alt=""></div>
-        </div>
-      </div>
-      <div class="row">
-        <div class="col-md-12 col-lg-12">
-          <div class="section-5-box-text-cont wow fadeInLeft" style="visibility: visible; animation-name: fadeInLeft;"><img
-              src="images/case-share/12.jpg" class="img-responsive" alt=""></div>
+          <div class="section-5-box-text-cont wow fadeInLeft" style="visibility: visible; animation-name: fadeInLeft;">
+            <img src="images/case-share/12.jpg" class="img-responsive" alt=""></div>
         </div>
       </div>
     </div>
@@ -344,8 +338,8 @@
           <div class="footer-top-box">
             <h4>联系我们</h4>
             <p><b>地址 : 上海市嘉定区陈翔路88号6栋2楼B区2020室<br />
-              <b>电话: </b> 021-62681415<br />
-              <b>邮箱: </b> service@richysh.com.cn </p>
+                <b>电话: </b> 021-62681415<br />
+                <b>邮箱: </b> service@richysh.com.cn </p>
           </div>
         </div>
       </div>

diff --git a/src/company-introduction.html b/src/company-introduction.html
@@ -136,19 +136,18 @@
     <div class="container">
       <div class="section18">
         <div class="row">
-          <div class="col-md-8 col-lg-8 wow fadeInUp">
+          <div class="col-md-7 col-lg-7 wow fadeInUp">
             <div class="textcont">
-              <h3>公司介绍</h3>
+              <h3>公司介绍</h3><br>
               <p>睿启（上海）工程设备有限公司创建于2014年，是一家专注于医院自动化物流解决方案、药房自动化解决方案、仓储智能物流解决方案以及手术室骨科机器人的科技型公司。</p>
-              <h4>建于2014年</h4>
               <p>作为智能化设备提供商，睿启以“全面、主动、及时”的服务宗旨为您解决设备使用中的任何问题，公司销售及售后服务点分布全国各省市，同时提供从设计、安装、实施到培训及维护等全方位的优质服务，最大程度满足客户的服务需求。</p>
               <h4>企业理念</h4>
               <p>智能 改变生活<br>您身边的智能专家</p>
             </div>
           </div>
-          <div class="col-md-4 col-lg-3 col-lg-push-1 wow fadeInUp" data-wow-delay=".2s">
+          <div class="col-md-5 col-lg-5 wow fadeInUp" data-wow-delay=".2s">
             <div class="section-18-img">
-              <img src="images/logo.png" class="img-responsive" alt="">
+              <img src="images/campany.jpg" class="img-responsive" alt="">
             </div>
           </div>
         </div>
@@ -231,8 +230,9 @@
         <div class="col-md-2 col-lg-2">
           <div class="footer-top-box">
             <h4>联系我们</h4>
-            <p><b>地址 : 上海市嘉定区陈翔路88号6栋2楼B区2020室<br />
-              <b>电话: </b> 021-62681415<br />
+            <p>
+              <b>地址 :</b> 上海市嘉定区陈翔路88号6栋2楼B区2020室<br />
+              <b>地址 :</b> 上海市虹口区邯郸路173号4号楼6100室<br />
               <b>邮箱: </b> service@richysh.com.cn </p>
           </div>
         </div>
@@ -251,5 +251,4 @@
   <script src="js/main.js"></script>
   <script src="js/index.js"></script>
 </body>
-
 </html>
